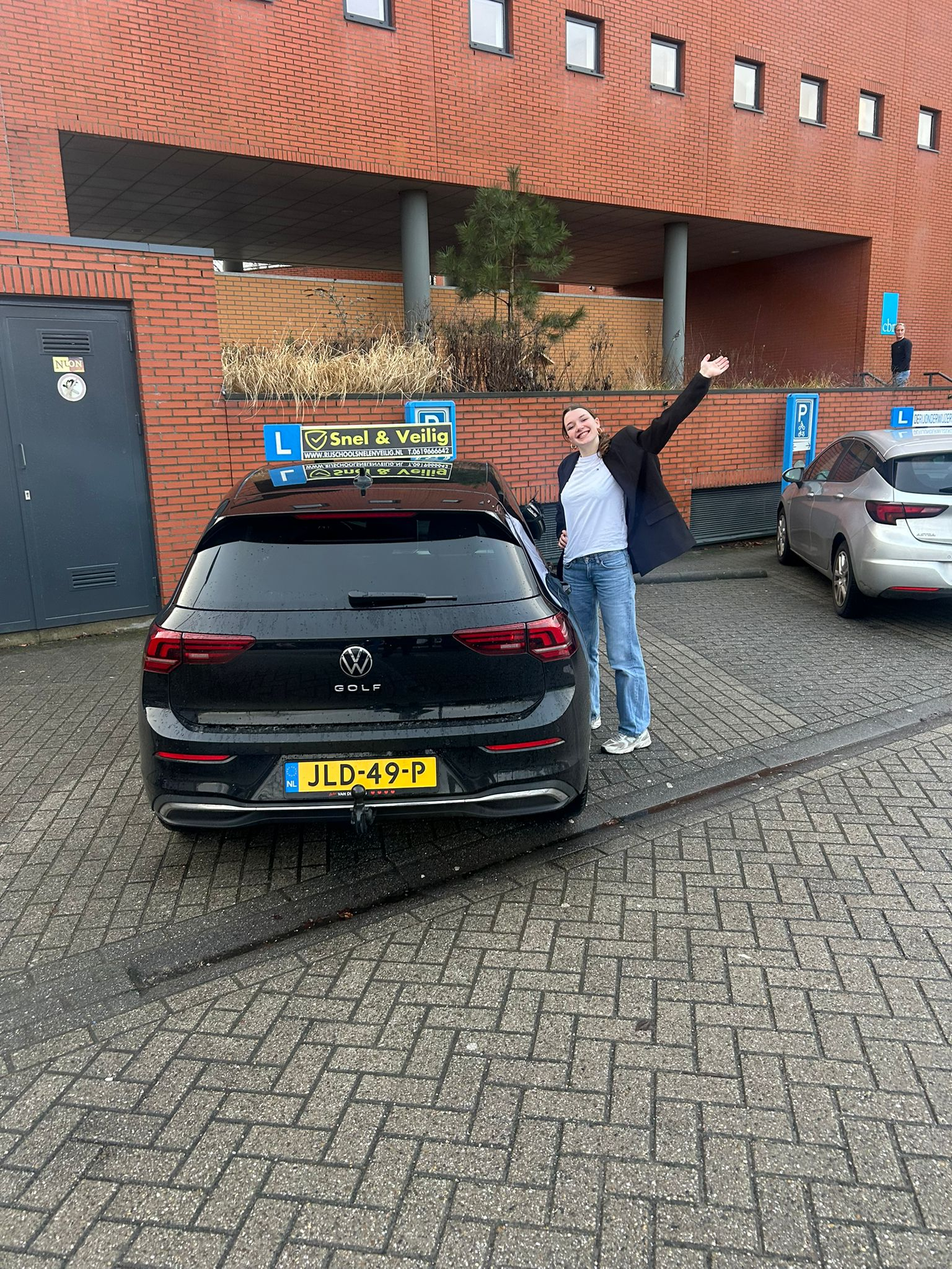
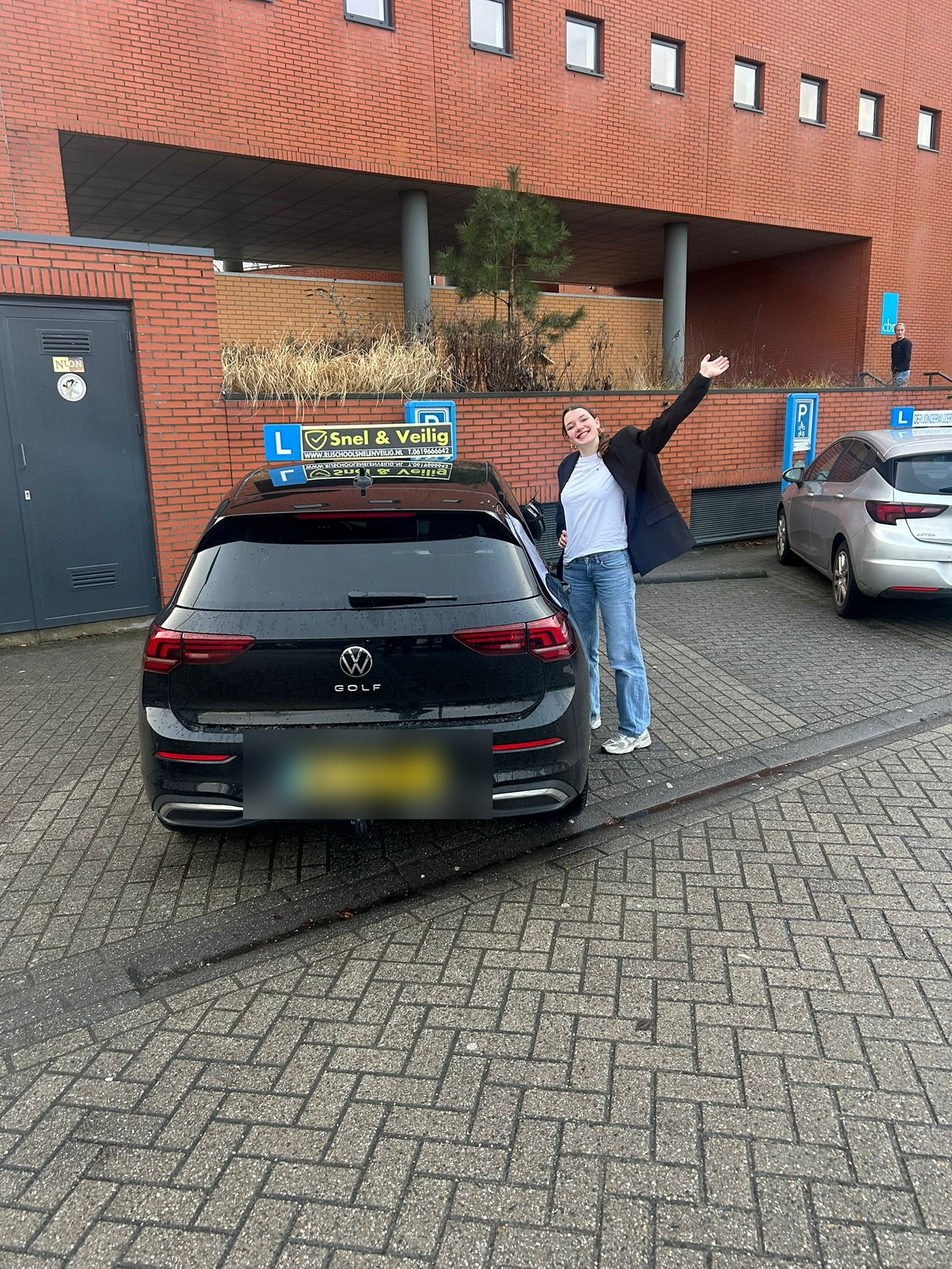
reviews foto

Changed region(s): [[0.25, 0.5625, 0.5312, 0.6562]]

diff --git a/resources/views/pages/index.blade.php b/resources/views/pages/index.blade.php
@@ -345,17 +345,77 @@
 </section>
 
 <style>
-/* vaste afmetingen en nette bijsnijding */
-.student-img {
-  width: 100%;
-  height: 220px;
-  object-fit: cover;
-  object-position: 50% 25%;
-  display: block;
-  border-radius: 6px;
+.geslaagden-section {
+  padding: 3rem 1rem 4rem;
 }
 
-/* slide row: flex container met gap */
+.geslaagden-header {
+  text-align: center;
+  margin-bottom: 2.5rem;
+}
+
+.geslaagden-title {
+  font-size: clamp(1.6rem, 4vw, 2.4rem);
+  font-weight: 800;
+  color: #fff;
+  margin-bottom: 0.5rem;
+}
+
+.geslaagden-subtitle {
+  color: #90caf9;
+  font-size: 1rem;
+  margin-bottom: 0;
+}
+
+/* student card */
+.student-card {
+  flex: 0 0 calc((100% - ((var(--ips) - 1) * var(--gap))) / var(--ips));
+  max-width: 380px;
+  box-sizing: border-box;
+  position: relative;
+  border-radius: 14px;
+  overflow: hidden;
+  box-shadow: 0 8px 32px rgba(0,0,0,0.45);
+  transition: transform 0.25s ease, box-shadow 0.25s ease;
+}
+
+.student-card:hover {
+  transform: translateY(-4px);
+  box-shadow: 0 16px 40px rgba(0,0,0,0.6);
+}
+
+.student-img {
+  width: 100%;
+  height: 260px;
+  object-fit: cover;
+  object-position: 50% 20%;
+  display: block;
+}
+
+.student-card-overlay {
+  position: absolute;
+  bottom: 0;
+  left: 0;
+  right: 0;
+  padding: 0.6rem 0.8rem;
+  background: linear-gradient(to top, rgba(0,0,0,0.75) 0%, transparent 100%);
+  display: flex;
+  align-items: center;
+  gap: 0.4rem;
+}
+
+.student-card-badge {
+  background: #f59e0b;
+  color: #fff;
+  font-size: 0.7rem;
+  font-weight: 700;
+  padding: 0.2rem 0.6rem;
+  border-radius: 50px;
+  letter-spacing: 0.05em;
+  text-transform: uppercase;
+}
+
+/* slide row */
 .slide-row {
   display: flex;
   gap: 1rem;
@@ -365,54 +425,88 @@
   box-sizing: border-box;
 }
 
-/* --ips wordt door JS gezet (aantal items per slide) */
-.carousel-inner {
+/* carousel */
+.geslaagden-carousel .carousel-inner {
   --ips: 1;
   --gap: 1rem;
 }
 
-/* student-card: flex-basis berekend aan de hand van --ips en --gap */
-.student-card {
-  flex: 0 0 calc((100% - ((var(--ips) - 1) * var(--gap))) / var(--ips));
-  max-width: 360px;
-  box-sizing: border-box;
+.geslaagden-carousel .carousel-item {
+  transition: transform 0.55s ease;
 }
 
-/* kleine visuele smoothing */
-.carousel-inner .carousel-item {
-  transition: transform 0.6s ease;
-}
-
-/* arrows */
-.carousel-control-prev,
-.carousel-control-next {
-  width: 3.5rem;
-  height: 3.5rem;
+/* pijlen */
+.geslaagden-carousel .carousel-control-prev,
+.geslaagden-carousel .carousel-control-next {
+  width: 3rem;
+  height: 3rem;
   top: 50%;
   transform: translateY(-50%);
+  background: rgba(255,255,255,0.12);
+  border-radius: 50%;
+  border: 1px solid rgba(255,255,255,0.2);
+  backdrop-filter: blur(4px);
+  transition: background 0.2s;
+}
+
+.geslaagden-carousel .carousel-control-prev:hover,
+.geslaagden-carousel .carousel-control-next:hover {
+  background: rgba(255,255,255,0.25);
+}
+
+/* dot indicators */
+.geslaagden-dots {
+  display: flex;
+  justify-content: center;
+  gap: 0.4rem;
+  margin-top: 1.5rem;
+}
+
+.geslaagden-dot {
+  width: 8px;
+  height: 8px;
+  border-radius: 50%;
+  background: rgba(255,255,255,0.3);
+  border: none;
+  padding: 0;
+  cursor: pointer;
+  transition: background 0.2s, transform 0.2s;
+}
+
+.geslaagden-dot.active {
+  background: #f59e0b;
+  transform: scale(1.3);
 }
 </style>
 
-<div class="container py-4">
-  <div id="studentsCarousel" class="carousel slide" data-bs-ride="carousel">
-    <div class="carousel-inner">
-      <!-- slides worden door JS opgebouwd -->
+<section class="geslaagden-section bg-dark">
+  <div class="geslaagden-header">
+    <h2 class="geslaagden-title">Geslaagd!</h2>
+    <p class="geslaagden-subtitle">Trots op al onze leerlingen die hun rijbewijs hebben gehaald.</p>
+  </div>
+
+  <div class="container position-relative">
+    <div id="studentsCarousel" class="carousel slide geslaagden-carousel" data-bs-ride="carousel">
+      <div class="carousel-inner">
+        <!-- slides worden door JS opgebouwd -->
+      </div>
+
+      <button class="carousel-control-prev" type="button" id="carouselPrev" aria-label="Vorige">
+        <span class="carousel-control-prev-icon" aria-hidden="true"></span>
+        <span class="visually-hidden">Previous</span>
+      </button>
+      <button class="carousel-control-next" type="button" id="carouselNext" aria-label="Volgende">
+        <span class="carousel-control-next-icon" aria-hidden="true"></span>
+        <span class="visually-hidden">Next</span>
+      </button>
     </div>
 
-    <button class="carousel-control-prev" type="button" id="carouselPrev" aria-label="Vorige">
-      <span class="carousel-control-prev-icon" aria-hidden="true"></span>
-      <span class="visually-hidden">Previous</span>
-    </button>
-    <button class="carousel-control-next" type="button" id="carouselNext" aria-label="Volgende">
-      <span class="carousel-control-next-icon" aria-hidden="true"></span>
-      <span class="visually-hidden">Next</span>
-    </button>
+    <div class="geslaagden-dots" id="carouselDots"></div>
   </div>
-</div>
+</section>
 
-<!-- Safe JS: bouw een array met volledige asset()-urls in PHP en geef die als JSON door -->
+<!-- images als JSON met volledige asset() URLs -->
 <script>
-  // images wordt veilig door Blade ingespoten als JSON met volledige URLs
   const images = @json(array_map(fn($p) => asset($p), $images ?? []));
 </script>
 
@@ -420,8 +514,9 @@
 
 <script>
 document.addEventListener('DOMContentLoaded', function () {
-  const carouselEl = document.getElementById('studentsCarousel');
+  const carouselEl   = document.getElementById('studentsCarousel');
   const carouselInner = carouselEl.querySelector('.carousel-inner');
+  const dotsContainer = document.getElementById('carouselDots');
   const prevBtn = document.getElementById('carouselPrev');
   const nextBtn = document.getElementById('carouselNext');
 
@@ -432,31 +527,29 @@ document.addEventListener('DOMContentLoaded', function () {
     return 1;
   }
 
-  // Bouw slides: voor elk origineel beeld een slide die de volgende N-1 beelden laat zien (wrap)
   function buildSlides() {
-    const itemsPerSlide = getItemsPerSlide();
-    carouselInner.style.setProperty('--ips', itemsPerSlide);
+    const ips = getItemsPerSlide();
+    carouselInner.style.setProperty('--ips', ips);
     carouselInner.style.setProperty('--gap', '1rem');
 
-    // edge: geen images => fallback
     if (!images || !images.length) {
       carouselInner.innerHTML = '<div class="carousel-item active"><div class="slide-row"><div class="student-card"><img class="student-img" src="" alt="geen afbeelding"></div></div></div>';
+      dotsContainer.innerHTML = '';
       return;
     }
 
-    // Voor elk origineel beeld maak 1 slide met itemsPerSlide items (wrapped)
     const slides = [];
-    for (let start = 0; start < images.length; start++) {
+    for (let start = 0; start < images.length; start += ips) {
       const chunk = [];
-      for (let j = 0; j < itemsPerSlide; j++) {
-        const idx = (start + j) % images.length;
-        chunk.push(images[idx]);
+      for (let j = 0; j < ips; j++) {
+        chunk.push(images[(start + j) % images.length]);
       }
       slides.push(chunk);
     }
 
-    // DOM opbouwen: slides zijn nu images.length in aantal
     carouselInner.innerHTML = '';
+    dotsContainer.innerHTML = '';
+
     slides.forEach((chunk, sIndex) => {
       const item = document.createElement('div');
       item.className = 'carousel-item' + (sIndex === 0 ? ' active' : '');
@@ -472,35 +565,54 @@ document.addEventListener('DOMContentLoaded', function () {
         img.className = 'student-img';
         img.loading = 'lazy';
         img.src = src || '';
+        img.alt = 'Geslaagde leerling';
         card.appendChild(img);
+
+        const overlay = document.createElement('div');
+        overlay.className = 'student-card-overlay';
+        const badge = document.createElement('span');
+        badge.className = 'student-card-badge';
+        badge.textContent = 'Geslaagd!';
+        overlay.appendChild(badge);
+        card.appendChild(overlay);
+
         row.appendChild(card);
       });
 
       item.appendChild(row);
       carouselInner.appendChild(item);
+
+      // dot
+      const dot = document.createElement('button');
+      dot.className = 'geslaagden-dot' + (sIndex === 0 ? ' active' : '');
+      dot.setAttribute('aria-label', 'Ga naar slide ' + (sIndex + 1));
+      dot.addEventListener('click', () => bsCarousel.to(sIndex));
+      dotsContainer.appendChild(dot);
     });
   }
 
-  // init
+  function updateDots(activeIndex) {
+    dotsContainer.querySelectorAll('.geslaagden-dot').forEach((dot, i) => {
+      dot.classList.toggle('active', i === activeIndex);
+    });
+  }
+
   buildSlides();
+
   let bsCarousel = new bootstrap.Carousel(carouselEl, {
-    interval: 3000,
-    ride: 'carousel',   // autoplay weer aan
+    interval: 3500,
+    ride: 'carousel',
     pause: 'hover',
     wrap: true
   });
 
-  // Prev/Next: gebruik built-in prev/next — slide bevat meerdere kaarten
-  prevBtn.addEventListener('click', function (e) {
-    e.preventDefault();
-    bsCarousel.prev();
-  });
-  nextBtn.addEventListener('click', function (e) {
-    e.preventDefault();
-    bsCarousel.next();
+  carouselEl.addEventListener('slid.bs.carousel', function (e) {
+    updateDots(e.to);
   });
 
-  // Rebuild alleen wanneer breakpoint verandert (debounced)
+  prevBtn.addEventListener('click', e => { e.preventDefault(); bsCarousel.prev(); });
+  nextBtn.addEventListener('click', e => { e.preventDefault(); bsCarousel.next(); });
+
   let lastIps = getItemsPerSlide();
   let resizeTimer;
   window.addEventListener('resize', function () {
@@ -512,10 +624,13 @@ document.addEventListener('DOMContentLoaded', function () {
         bsCarousel.dispose();
         buildSlides();
         bsCarousel = new bootstrap.Carousel(carouselEl, {
-          interval: 3000,
+          interval: 3500,
           ride: 'carousel',
           pause: 'hover',
           wrap: true
+        });
+        carouselEl.addEventListener('slid.bs.carousel', function (e) {
+          updateDots(e.to);
         });
       }
     }, 150);

diff --git a/app/Http/Controllers/RouteController.php b/app/Http/Controllers/RouteController.php
@@ -8,15 +8,17 @@ class RouteController
 {
     public function index() {
         $images = [
-        'images/leerlingen/leerling1.jpeg',
-        'images/leerlingen/leerling2.jpeg',
-        'images/leerlingen/leerling3.jpeg',
-        'images/leerlingen/leerling4.jpeg',
-        'images/leerlingen/leerling5.jpeg',
-        'images/leerlingen/leerling6.jpeg',
-        'images/leerlingen/leerling7.jpeg',
-        'images/leerlingen/leerling8.jpeg',
-    ];
+            'images/leerlingen/leerling1.jpeg',
+            'images/leerlingen/leerling2.jpeg',
+            'images/leerlingen/leerling3.jpeg',
+            'images/leerlingen/leerling4.jpeg',
+            'images/leerlingen/leerling5.jpeg',
+            'images/leerlingen/leerling6.jpeg',
+            'images/leerlingen/leerling7.jpeg',
+            'images/leerlingen/leerling8.jpeg',
+            'images/leerlingen/leerling9.jpeg',
+            'images/leerlingen/leerling10.jpeg',
+        ];
         return view('pages.index', compact('images'));
     }
 
